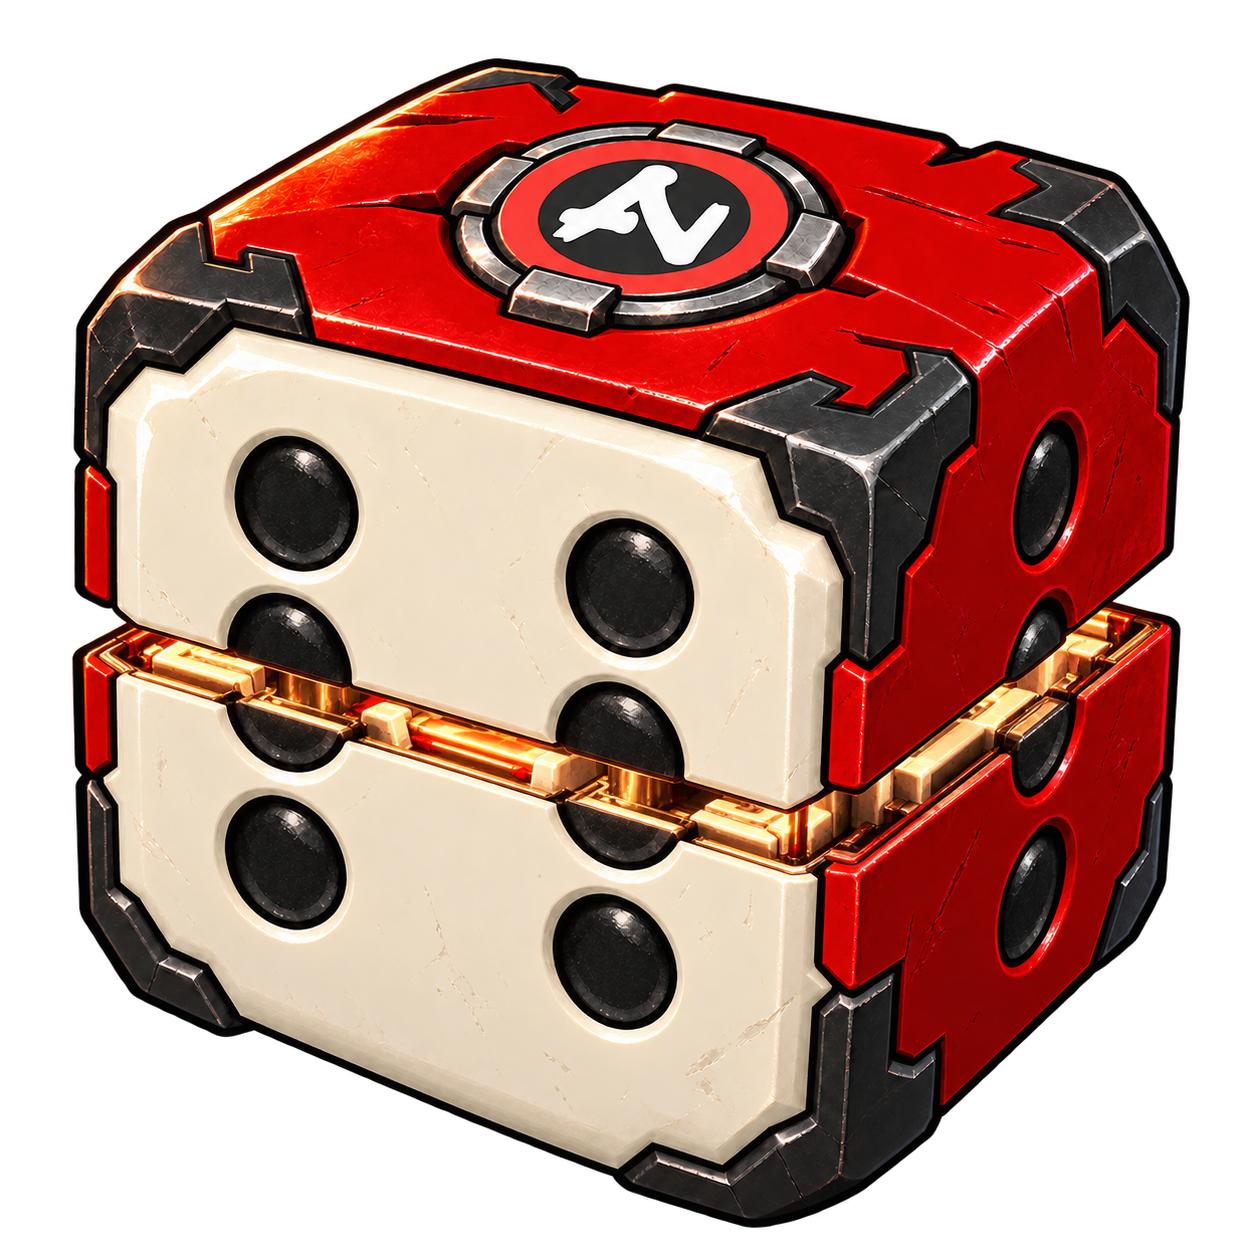
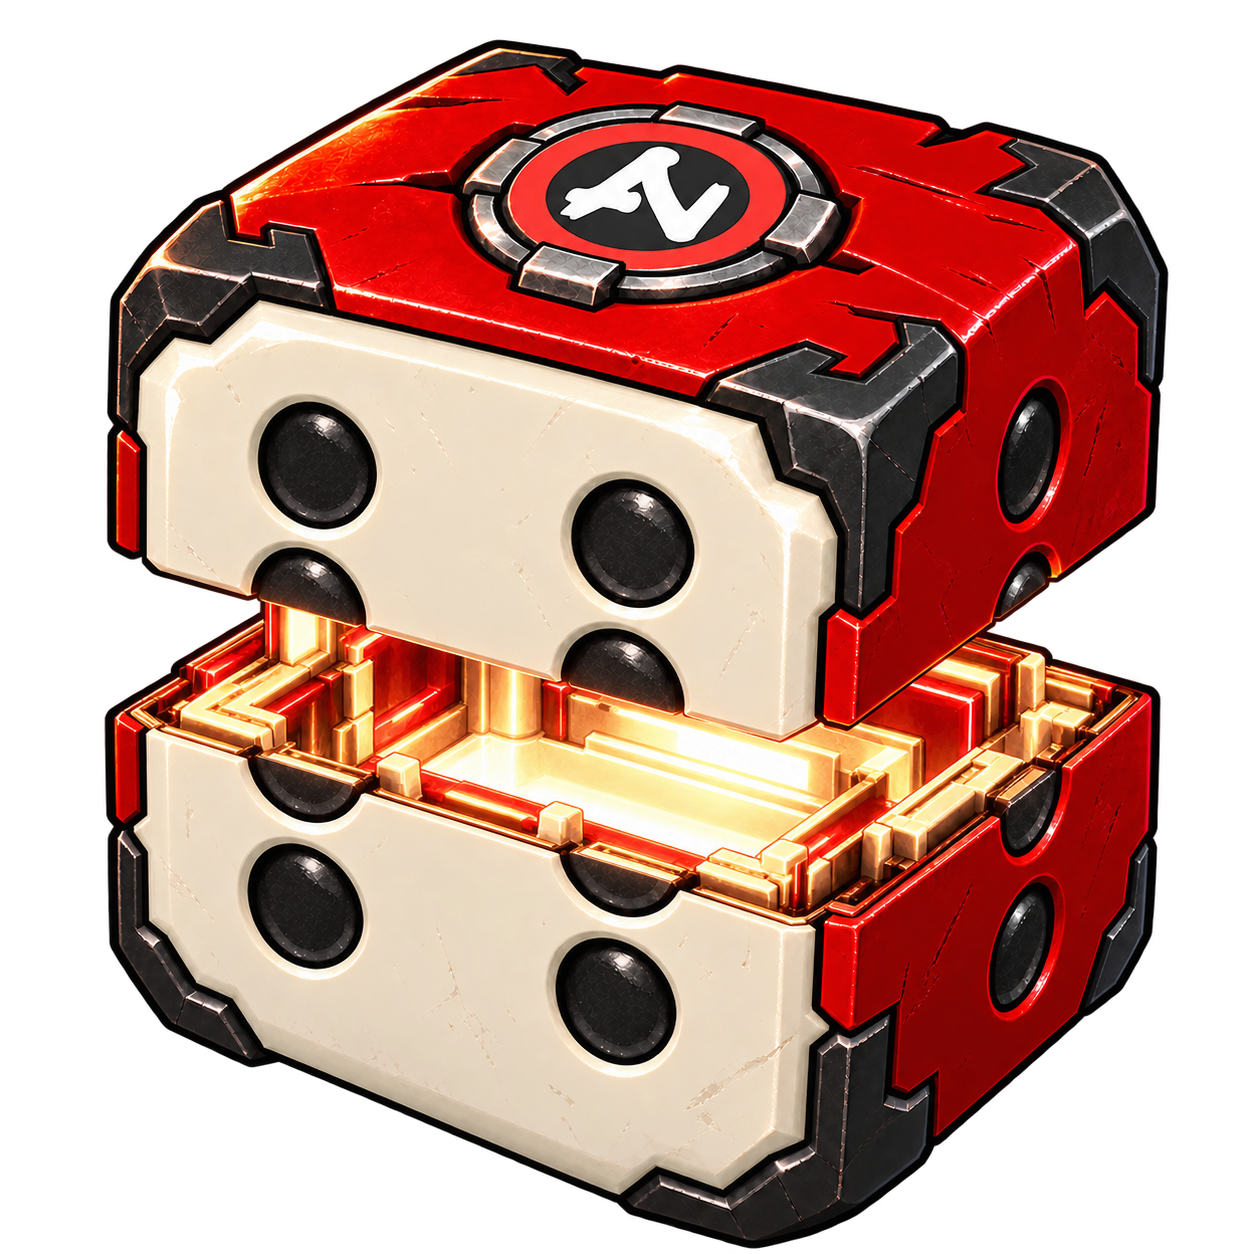
feat: widen capture dice opening and animate interior glow

diff --git a/src/components/transitions/sceneTransitions.css b/src/components/transitions/sceneTransitions.css
@@ -65,6 +65,10 @@
 }
 
 .arka-d6-hero {
+  --d6-glow-x: 49.2%;
+  --d6-glow-y: 58.3%;
+  --d6-glow-width: 59%;
+  --d6-glow-angle: 18deg;
   position: absolute;
   top: 9%;
   left: 50%;
@@ -73,6 +77,7 @@
   filter: var(--scene-artwork-filter) drop-shadow(0 24px 22px #000a);
   animation: arka-d6-launch var(--scene-dice-ms) cubic-bezier(0.23, 0.75, 0.18, 1) both;
   will-change: transform;
+  isolation: isolate;
 }
 
 .arka-d6-hero img {
@@ -81,6 +86,7 @@
   width: 100%;
   height: 100%;
   object-fit: contain;
+  z-index: 1;
 }
 
 .arka-d6-closed { animation: arka-d6-closed-pose var(--scene-dice-ms) linear both; }
@@ -109,17 +115,52 @@
   animation: arka-d6-wordmark var(--scene-dice-ms) ease-out both;
 }
 
-.arka-d6-capture-light {
+.arka-d6-interior-light {
   position: absolute;
-  top: 23%;
-  left: 36%;
-  width: 28%;
-  height: 32%;
-  border-radius: 50%;
-  background: radial-gradient(ellipse, #fff9df, #ffcaaa55 22%, transparent 66%);
-  mix-blend-mode: screen;
+  inset: 0;
+  z-index: 0;
   pointer-events: none;
-  animation: arka-d6-capture var(--scene-dice-ms) ease-in both;
+  animation: arka-d6-interior-light var(--scene-dice-ms) linear both;
+}
+
+.arka-d6-interior-light--source { z-index: 2; }
+
+.arka-d6-interior-light__halo,
+.arka-d6-interior-light__rays,
+.arka-d6-interior-light__source {
+  position: absolute;
+  top: var(--d6-glow-y);
+  left: var(--d6-glow-x);
+  transform: translate(-50%, -50%) rotate(var(--d6-glow-angle));
+}
+
+.arka-d6-interior-light__halo {
+  width: 94%;
+  height: 49%;
+  border-radius: 50%;
+  background: radial-gradient(ellipse, #fff4cfd9 0%, #ffb35d85 19%, #e838254d 38%, transparent 68%);
+  filter: blur(9px);
+}
+
+.arka-d6-interior-light__rays {
+  width: 110%;
+  height: 75%;
+  background: conic-gradient(from 12deg,
+    transparent 0deg 28deg, #ffead244 31deg, transparent 35deg 93deg,
+    #ffdfb933 96deg, transparent 101deg 175deg, #ffddc23d 179deg,
+    transparent 184deg 240deg, #ffc78f33 243deg, transparent 248deg 305deg,
+    #ffe7ce3d 309deg, transparent 314deg 360deg);
+  mask-image: radial-gradient(ellipse, #000 6%, transparent 65%);
+  filter: blur(2px);
+}
+
+.arka-d6-interior-light__source {
+  width: var(--d6-glow-width);
+  height: 8%;
+  border-radius: 50%;
+  background: radial-gradient(ellipse, #fffbed 0%, #fff1cfcc 18%, #ffa35e66 45%, transparent 72%);
+  mix-blend-mode: screen;
+  filter: blur(2px);
 }
 
 .arka-d6-fallback {
@@ -172,14 +213,16 @@
   0%, 37% { opacity: 0; transform: translate(-50%, 14%) scale(0.94); }
   54%, to { opacity: 1; transform: translate(-50%, 0) scale(1); }
 }
-@keyframes arka-d6-capture {
-  0%, 61% { opacity: 0; transform: scale(0.35); }
-  76% { opacity: 0.7; transform: scale(1); }
-  100% { opacity: 0; transform: scale(2.2); }
+@keyframes arka-d6-interior-light {
+  0%, 57% { opacity: 0; }
+  64% { opacity: 0.16; }
+  71% { opacity: 0.72; }
+  76%, 86% { opacity: 1; }
+  100% { opacity: 0.12; }
 }
 
 @media (prefers-reduced-motion: reduce) {
   .arka-scene-transition, .arka-scene-transition * { animation: none !important; }
   .arka-d6-hero, .arka-d6-wordmark { transform: translateX(-50%); }
-  .arka-d6-open, .arka-d6-capture-light { display: none; }
+  .arka-d6-open, .arka-d6-interior-light { display: none; }
 }

diff --git a/src/components/transitions/ArkamonDiceArtwork.tsx b/src/components/transitions/ArkamonDiceArtwork.tsx
@@ -33,6 +33,12 @@ export function ArkamonDiceArtwork() {
       </svg>
       <div className="arka-d6-landing-shadow" />
       <div className="arka-d6-hero">
+        {!openFailed ? (
+          <div className="arka-d6-interior-light" data-transition-light="dice-interior">
+            <div className="arka-d6-interior-light__halo" />
+            <div className="arka-d6-interior-light__rays" />
+          </div>
+        ) : null}
         {closedFailed ? (
           <div className="arka-d6-fallback">
             {Array.from({ length: 6 }, (_, index) => <span key={index} />)}
@@ -47,11 +53,15 @@ export function ArkamonDiceArtwork() {
           />
         )}
         {!openFailed ? (
-          <img className="arka-d6-open" src={assetUrl(ARKAMON_D6_OPEN_PATH)} alt="" draggable={false} onError={() => setOpenFailed(true)} />
+          <>
+            <img className="arka-d6-open" src={assetUrl(ARKAMON_D6_OPEN_PATH)} alt="" draggable={false} onError={() => setOpenFailed(true)} />
+            <div className="arka-d6-interior-light arka-d6-interior-light--source">
+              <div className="arka-d6-interior-light__source" />
+            </div>
+          </>
         ) : null}
       </div>
       <img className="arka-d6-wordmark" src={assetUrl(ARKAMON_LOGO_PATH)} alt="" draggable={false} />
-      <div className="arka-d6-capture-light" />
     </div>
   )
 }

diff --git a/src/components/transitions/__tests__/SceneTransitionOverlay.test.tsx b/src/components/transitions/__tests__/SceneTransitionOverlay.test.tsx
@@ -30,6 +30,7 @@ describe('scene transition artwork selection', () => {
       expect(markup).not.toContain('arkamon-d6-open.webp')
       expect(markup).not.toContain('arka-d6-board')
       expect(markup).not.toContain('arka-d6-fallback')
+      expect(markup).not.toContain('data-transition-light="dice-interior"')
     }
   })
 

diff --git a/docs/scene-transitions.md b/docs/scene-transitions.md
@@ -1,6 +1,6 @@
 # Transizioni Arkamon: il D6 custodisce la creatura
 
-La transizione tra scene usa un oggetto riconoscibile: un dado D6 cremisi e nero, con sei punti sulla faccia chiara e il simbolo circolare fornito dall'utente sul medaglione superiore (anello rosso, centro nero e segno bianco). Il dado entra con un lancio, rimbalza, si assesta e si apre esattamente lungo la linea nera centrale originale. Si solleva l'intera metà superiore; le fossette attraversate dalla linea vengono divise tra le due metà, senza un secondo taglio più in alto. Un breve bagliore accompagna il logo ufficiale e l'arrivo alla nuova scena. Il percorso a caselle sullo sfondo collega l'oggetto all'esplorazione da boardgame.
+La transizione tra scene usa un oggetto riconoscibile: un dado D6 cremisi e nero, con sei punti sulla faccia chiara e il simbolo circolare fornito dall'utente sul medaglione superiore (anello rosso, centro nero e segno bianco). Il dado entra con un lancio, rimbalza, si assesta e si apre esattamente lungo la linea nera centrale originale. Si solleva l'intera metà superiore con un varco ampio e chiaramente visibile; le fossette attraversate dalla linea vengono divise tra le due metà, senza un secondo taglio più in alto. Una luce calda nasce dalla cavità interna e aumenta insieme all'apertura, accompagnando il logo ufficiale e l'arrivo alla nuova scena. Il percorso a caselle sullo sfondo collega l'oggetto all'esplorazione da boardgame.
 
 Il movimento è decorativo: non estrae risultati, non consuma dadi o turni e non cambia lo stato della partita. Il simbolo unisce i due elementi del gioco: le creature custodite e il viaggio guidato dai D6.
 
@@ -12,7 +12,7 @@ La versione ibernata non appare nemmeno come riserva in caso di errore del video
 
 ## Illustrazioni e risorse
 
-Le due pose sono state modificate con il generatore di immagini integrato. Gli originali, i prompt completi, il riferimento del simbolo conservato senza modifiche e la provenienza sono in [art-source/transitions/arkamon-d6](../art-source/transitions/arkamon-d6/prompts.md). La normalizzazione conserva il disegno: stesso fattore di scala per entrambe le pose, margini trasparenti su una tela 1024 × 1024 e WebP senza perdita.
+Le due pose sono state modificate con il generatore di immagini integrato. Gli originali, i prompt completi, il riferimento del simbolo conservato senza modifiche e la provenienza sono in [art-source/transitions/arkamon-d6](../art-source/transitions/arkamon-d6/prompts.md). La normalizzazione conserva il disegno: le due sagome vengono allineate alla stessa larghezza e alla stessa base, con spazio trasparente sopra per l'apertura più ampia, su una tela 1024 × 1024 e WebP senza perdita.
 
 Le risorse usate dal gioco sono:
 
@@ -21,6 +21,8 @@ Le risorse usate dal gioco sono:
 - Il logo esistente `public/ui/logo_arkamon.png`, senza modifiche.
 
 Le pose vengono precaricate e decodificate all'apertura dell'app. Se una posa non si carica, resta visibile il dado chiuso oppure una faccia a sei punti. Il percorso e i nodi sono elementi vettoriali decorativi.
+
+Il bagliore animato è contenuto nel dado e ne segue posizione e rotazione. Una sorgente stretta illumina il varco, mentre un alone caldo e raggi discreti stanno dietro alla sagoma. La luce resta spenta fino all'inizio dell'apertura e raggiunge il picco quando il dado è aperto. Se la posa aperta non si carica o è attivo il movimento ridotto, la luce viene disattivata. La battaglia non monta né il dado né questi elementi luminosi.
 
 ## Integrazione
 

diff --git a/art-source/transitions/arkamon-d6/prompts.md b/art-source/transitions/arkamon-d6/prompts.md
@@ -20,3 +20,14 @@ Change ONLY the opening state. The entire die MUST separate into TWO EQUAL-HEIGH
 Lift the UPPER HALF straight up just a short distance (about 8% of original cube height), while keeping the lower half stationary and both halves aligned with the same perspective and cube footprint. A narrow warm ivory/crimson illuminated mechanical interior gap should appear precisely where the existing central black line was. The lower block must NOT retain another black seam lower down: the one original seam becomes the open gap. Maintain one obvious halfway split, exactly two rigid equal-height pieces.
 Preserve the SAME camera, three-quarter view, crimson red and charcoal corners, ivory enamel front, textured materials, warm lighting, silhouette and exact top emblem of image 1. This is a paired animation key pose, so keep the bottom and sides in the same position and scale, only the upper HALF moves. Preserve total front six pips and right three pips, counting any bisected middle pips as the original single pips. Do not repaint the emblem or turn the cube into a spherical device.
 One isolated die on square genuine transparent background, ample clear margin, full raised half visible, no clipped parts, no floating debris, ground, scene, captions, watermarks, VS or glow outside the seam.
+
+## Apertura più ampia e illuminazione interna
+
+Modalità: modifica con il generatore integrato image_gen, trasparenza RGBA.
+
+Use case: precise-object-edit.
+Asset type: OPEN pose of the existing Arkamon creature-capture D6 for a game transition.
+Image 1 is the edit target: the approved opened red/black/ivory D6 with the supplied circular emblem. Image 2 is the closed pose reference for its exact identity and central seam. Preserve the emblem exactly (red ring, black center, white AN glyph), all materials, cube proportions, camera, silhouette, number of pips and central half-height separation. Change ONLY the opening distance and interior light.
+PRIMARY CHANGE: the entire rigid UPPER HALF lifts straight upward much farther. Make the air gap between the two equal halves approximately 22–25% of the original closed cube height, roughly THREE TIMES the narrow gap in image 1. The upper half remains horizontally aligned with the stationary lower half, no lid rotation, no widening the object or changing perspective. The split remains along the ORIGINAL BLACK MIDLINE: the middle-row front pips and middle side pip are bisected between the halves. No new seam, no upper-quarter opening, no extra pips.
+INTERIOR LIGHT: a luminous warm ivory core with restrained crimson edges illuminates the exposed inside surfaces and undersides of the raised upper half, with believable bright interior and warm rim reflections. Leave the geometric open space very clearly readable. Keep the ivory faces, black pips and emblem crisp. Light is concentrated in the open interior; no large exterior halo or rays because the game adds those separately.
+COMPOSITION: entire object including raised half fully visible, centered horizontally on square true transparent RGBA canvas, ample clean transparent margin all around. Extend framing/transparent canvas if needed to avoid clipping; preserve both halves' proportions. No cast floor shadow, no scene/background, no floating fragments, no captions or new symbols, no VS or watermark. Same hand-painted stylized 3D videogame prop quality. Produce only this wider-open pose, not a comparison sheet.
